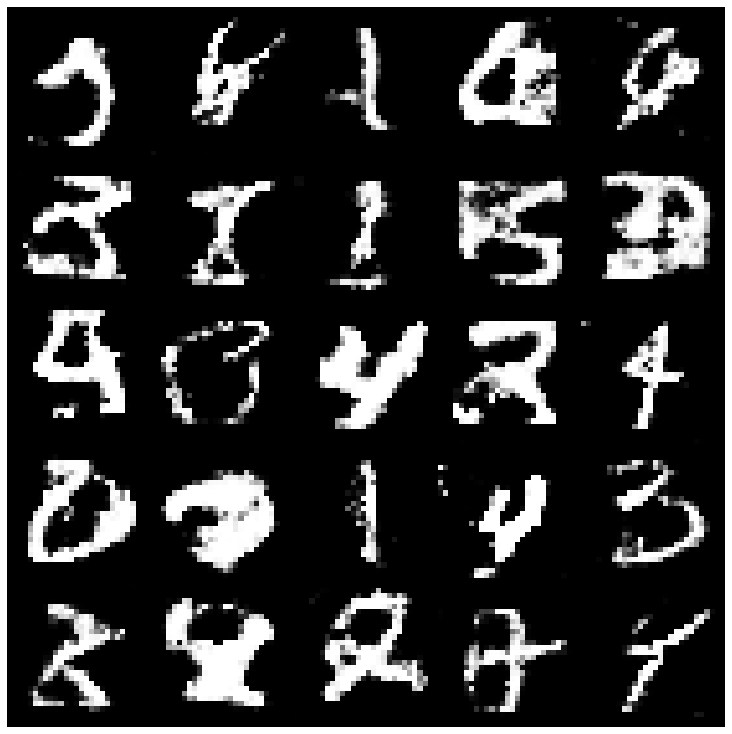
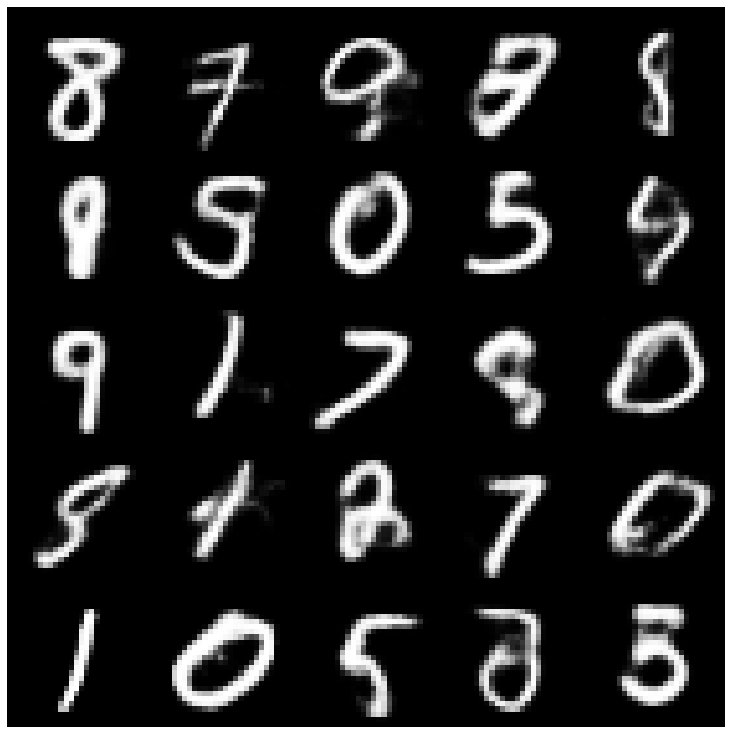
add showcase HVAE

diff --git a/README.md b/README.md
@@ -248,7 +248,7 @@ If you are experiencing any issues while running the code or request new feature
 | WAE + NormalSampler| ![WAE Normal](https://github.com/clementchadebec/benchmark_VAE/blob/main/examples/showcases/wae_normal_sampling_mnist.png) | ![WAE Normal](https://github.com/clementchadebec/benchmark_VAE/blob/main/examples/showcases/wae_normal_sampling_celeba.png)
 | INFO VAE + NormalSampler| ![INFO Normal](https://github.com/clementchadebec/benchmark_VAE/blob/main/examples/showcases/infovae_normal_sampling_mnist.png) | ![INFO Normal](https://github.com/clementchadebec/benchmark_VAE/blob/main/examples/showcases/infovae_normal_sampling_celeba.png)
 | VAMP + VAMPSampler          | ![VAMP Vamp](https://github.com/clementchadebec/benchmark_VAE/blob/main/examples/showcases/vamp_vamp_sampling_mnist.png) | ![VAMP Vamp](https://github.com/clementchadebec/benchmark_VAE/blob/main/examples/showcases/vamp_vamp_sampling_celeba.png) |
-| HVAE + GaussianMixtureSampler             | ![HVAE GMM](https://github.com/clementchadebec/benchmark_VAE/blob/main/examples/showcases/hvae_gmm_sampling_mnist.png) | ![HVAE GMM](https://github.com/clementchadebec/benchmark_VAE/blob/main/examples/showcases/hvae_gmm_sampling_celeba.png)
+| HVAE + NormalSampler             | ![HVAE Normal](https://github.com/clementchadebec/benchmark_VAE/blob/main/examples/showcases/hvae_normal_sampling_mnist.png) | ![HVAE GMM](https://github.com/clementchadebec/benchmark_VAE/blob/main/examples/showcases/hvae_normal_sampling_celeba.png)
 | RAE_L2 + GaussianMixtureSampler | ![RAE L2 GMM](https://github.com/clementchadebec/benchmark_VAE/blob/main/examples/showcases/rae_l2_gmm_sampling_mnist.png)  |  ![RAE L2 GMM](https://github.com/clementchadebec/benchmark_VAE/blob/main/examples/showcases/rae_l2_gmm_sampling_celeba.png)
 | RAE_GP + GaussianMixtureSampler| ![RAE GMM](https://github.com/clementchadebec/benchmark_VAE/blob/main/examples/showcases/rae_gp_gmm_sampling_mnist.png)  |  ![RAE GMM](https://github.com/clementchadebec/benchmark_VAE/blob/main/examples/showcases/rae_gp_gmm_sampling_celeba.png)
 | Riemannian Hamiltonian VAE (RHVAE) + RHVAE Sampler| ![RHVAE RHVAE](https://github.com/clementchadebec/benchmark_VAE/blob/main/examples/showcases/rhvae_rhvae_sampling_mnist.png) | ![RHVAE RHVAE](https://github.com/clementchadebec/benchmark_VAE/blob/main/examples/showcases/rhvae_rhvae_sampling_celeba.png)
